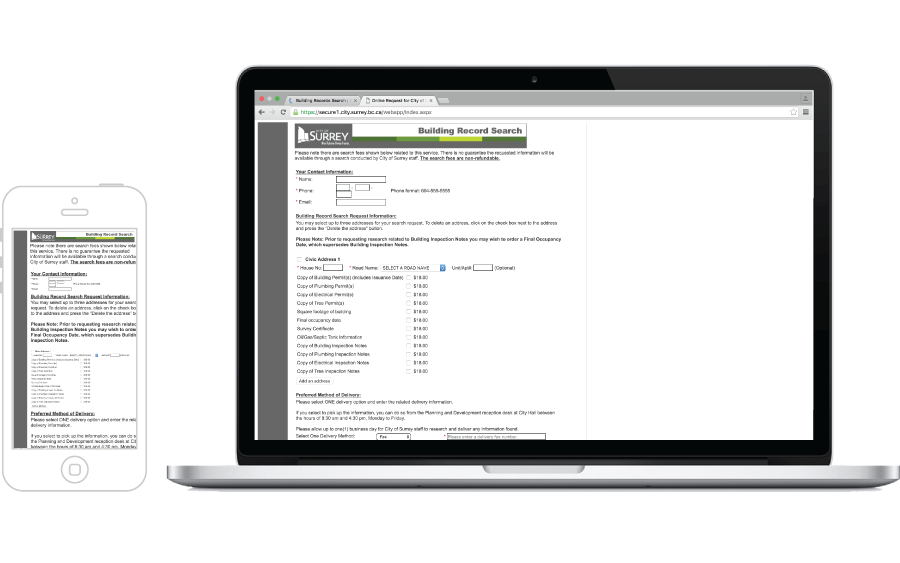
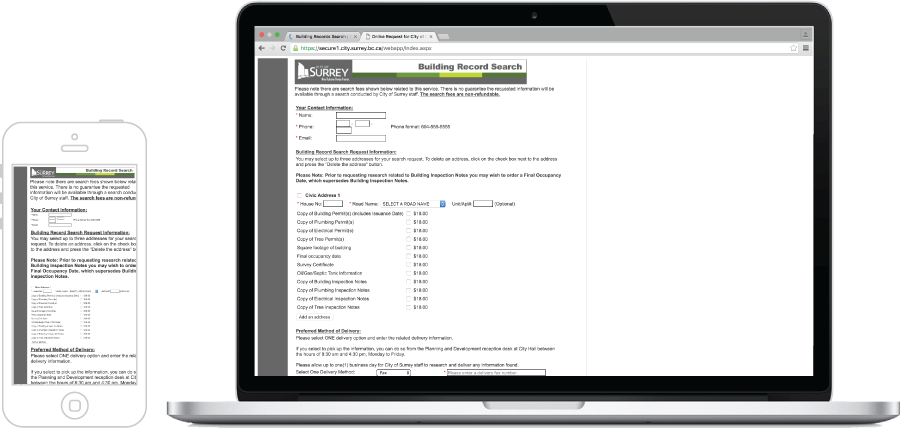
switched sections around

diff --git a/mysurreyportal.html b/mysurreyportal.html
@@ -149,7 +149,17 @@
 								  <h3 class="subtitle">Process:</h3>
 								 <p class="inner-longtext">We first approached this project by discussing with the Business to get a sense of the common issues they have heard from the feedback of the customers.</p>
 
-								 <div class="columns inner-longtext text-column">
+								<div class="fsp-final-images">
+								  <h3 class="subtitle">Old Design:</h3>
+									<div class="columns1">
+										<img class="brs-screen" src="img/brs/old-brsscreen.png" alt="fsp"/>
+									</div>
+									<div class="columns1">
+										<img class="brs-screens" src="img/brs/brs-oldannotied.png" alt="fsp"/>
+									</div>
+								</div>
+
+								<div class="columns inner-longtext text-column">
 									<h3>Feedback from previous users:</h3>
 									<ul class="skill">
 										<li>The service is <div class="inner-emph">not responsive</div>. This makes it difficult and <div class="inner-emph">time consuming</div> for the end users to make these requests while on site.</li>
@@ -169,28 +179,20 @@
 									</ul>
 								</div>
 
-								<div class="fsp-final-images">
-								  <h3 class="subtitle">Old Design:</h3>
-									<div class="columns1">
-										<img class="brs-screen" src="img/brs/old-brsscreen.png" alt="fsp"/>
-									</div>
-									<div class="columns1">
-										<img class="brs-screens" src="img/brs/brs-oldannotied.png" alt="fsp"/>
-									</div>
-								</div>
 							</div>
 
 								<h3 class="subtitle">Final Design:</h3>
+
+								<div class="columns1">
+										<img class="brs-screen" src="img/brs/brs-final.png" alt="fsp"/>
+								</div>
+
 								<ul>
 									<li>We divided the service into <div class="inner-emph">steps</div> for the user to <div class="inner-emph">concentrate on each main step individually</div> instead of being swamped by a bunch of information at once.</li>
 									<li>The main address search the user would be looking up is smart enough to <div class="inner-emph">filter through a database</div> to bring up addresses based on what the user types.</li>
 									<li>Each product is a <div class="inner-emph">button</div> so no matter how small the screen is, it’s <div class="inner-emph">easy to select</div> the product they want for the address.</li>
 									<li>In the <div class="inner-emph">payment page is iFramed</div> so the user is still in the same screen even though it’s still Moneris that is handling the credit card information and payment.</li>
 								</ul>
-
-								<div class="columns1">
-										<img class="brs-screen" src="img/brs/brs-final.png" alt="fsp"/>
-								</div>
 
 
 							</div>

diff --git a/css/style-content.css b/css/style-content.css
@@ -119,6 +119,7 @@ h1.inner-title{
 	margin: 0;
     width: 100%;
     display: block;
+    padding-top:25px;
 }
 img.fsp-screens{
 	width: 100%;
@@ -157,6 +158,7 @@ img.mac-fsp-smallpic{
 }
 img.brs-screen{
 	width: 100%;
+	padding-bottom: 25px;
 }
 img.brs-screens{
 	border: 1px solid #d1d4db;
